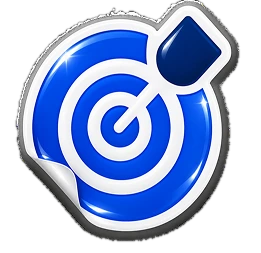
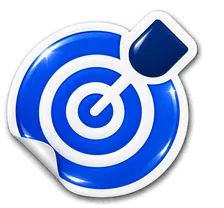
Novo ícone do alvo e gotinha azul mais larga (#7)
* Aba mais larga e adesivo centralizado nos cards de públicos

* Novo ícone do alvo recortado em PNG transparente

diff --git a/src/app/page.tsx b/src/app/page.tsx
@@ -61,10 +61,10 @@ export default function Inicio() {
 
         {/* Públicos: painel azul com aba central e três cartões brancos */}
         <section className="relative mt-[40px] lg:pt-[90px]" aria-label="Para quem é o Desafio">
-          <svg className="absolute left-1/2 top-0 hidden h-[92px] w-[260px] -translate-x-1/2 lg:block" viewBox="0 0 260 92" aria-hidden>
-            <path d="M0 92 H34 C56 92 66 84 76 66 L90 32 C97 12 112 4 130 4 C148 4 163 12 170 32 L184 66 C194 84 204 92 226 92 H260 Z" fill="#1555f0" />
+          <svg className="absolute left-1/2 top-0 hidden h-[92px] w-[300px] -translate-x-1/2 lg:block" viewBox="0 0 300 92" aria-hidden>
+            <path d="M0 92 H30 C58 92 72 84 84 64 L96 32 C104 12 126 4 150 4 C174 4 196 12 204 32 L216 64 C228 84 242 92 270 92 H300 Z" fill="#1555f0" />
           </svg>
-          <Image src="/img/alvo-adesivo.webp" alt="" width={261} height={253} className="absolute left-1/2 top-[14px] z-10 hidden h-[104px] w-auto -translate-x-1/2 lg:block" />
+          <Image src="/img/alvo-adesivo.webp" alt="" width={280} height={259} className="absolute left-1/2 top-[12px] z-10 hidden h-[104px] w-auto -translate-x-1/2 lg:block" />
           <div className="rounded-[32px] bg-azul px-4 pb-4 pt-4 sm:px-[33px] sm:pb-[33px] sm:pt-6 lg:rounded-[44px] lg:pt-[62px]">
             <div className="grid gap-[18px] md:grid-cols-2 lg:grid-cols-3">
               <Publico titulo="ESTUDANTES" foto="/img/card-estudantes.webp" classeFoto="mx-[14px] mb-[20px]" w={685} h={380}>
